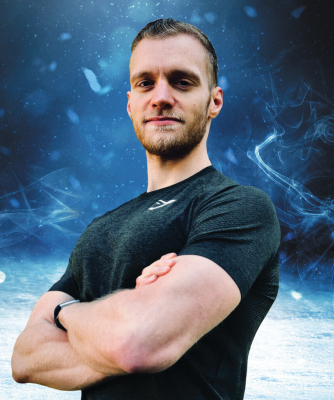
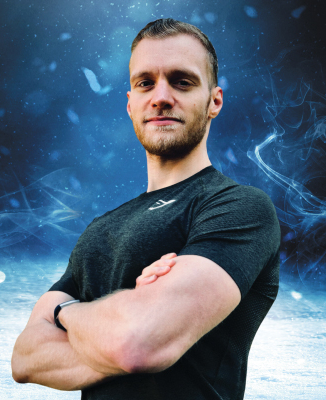
prof update

diff --git a/_site/index.html b/_site/index.html
@@ -22,7 +22,7 @@
   
   
   
-    <meta content="http://localhost:4000/assets/img/prof.jpg" property="og:image">
+    <meta content="http://localhost:4000/assets/img/profb2.jpg" property="og:image">
   
   
   
@@ -41,7 +41,7 @@
 ">
   
   
-    <meta name="twitter:image:src" content="http://localhost:4000/assets/img/prof.jpg">
+    <meta name="twitter:image:src" content="http://localhost:4000/assets/img/profb2.jpg">
   
 
 	<meta name="description" content="">
@@ -76,9 +76,9 @@
     <img class ="mobile-header-show" src =/assets/img/header3.jpg>
     <div class="about">
       <div class="cover-author-image">
-        <a href="/"><img src="/assets/img/prof.jpg" alt="Anthony Gallo"></a>
+        <a href="/"><img src="/assets/img/profb2.jpg" alt="Anthony D. Gallo"></a>
       </div>
-      <div class="author-name">Anthony Gallo</div>
+      <div class="author-name">Anthony D. Gallo</div>
       <p class="about-bio">Certified personal trainer and author of The Ice Sculpture Diet.</p>
       <ul class="links">
         <li>
@@ -115,7 +115,7 @@
       </ul>
     </section> <!-- End Section Contact -->
     <div class="copyright">
-      <p>2021 &copy; Anthony Gallo</p>
+      <p>2021 &copy; Anthony D. Gallo</p>
     </div>
   </footer> <!-- End Footer -->
 </aside> <!-- End Sidebar -->

diff --git a/_site/tags/index.html b/_site/tags/index.html
@@ -22,7 +22,7 @@
   
   
   
-    <meta content="http://localhost:4000/assets/img/prof.jpg" property="og:image">
+    <meta content="http://localhost:4000/assets/img/profb2.jpg" property="og:image">
   
   
   
@@ -41,7 +41,7 @@
 ">
   
   
-    <meta name="twitter:image:src" content="http://localhost:4000/assets/img/prof.jpg">
+    <meta name="twitter:image:src" content="http://localhost:4000/assets/img/profb2.jpg">
   
 
 	<meta name="description" content="">
@@ -76,9 +76,9 @@
     <img class ="mobile-header-show" src =/assets/img/header3.jpg>
     <div class="about">
       <div class="cover-author-image">
-        <a href="/"><img src="/assets/img/prof.jpg" alt="Anthony Gallo"></a>
+        <a href="/"><img src="/assets/img/profb2.jpg" alt="Anthony D. Gallo"></a>
       </div>
-      <div class="author-name">Anthony Gallo</div>
+      <div class="author-name">Anthony D. Gallo</div>
       <p class="about-bio">Certified personal trainer and author of The Ice Sculpture Diet.</p>
       <ul class="links">
         <li>
@@ -115,7 +115,7 @@
       </ul>
     </section> <!-- End Section Contact -->
     <div class="copyright">
-      <p>2021 &copy; Anthony Gallo</p>
+      <p>2021 &copy; Anthony D. Gallo</p>
     </div>
   </footer> <!-- End Footer -->
 </aside> <!-- End Sidebar -->

diff --git a/_site/calculating-your-bmr/index.html b/_site/calculating-your-bmr/index.html
@@ -85,9 +85,9 @@
     <img class ="mobile-header-show" src =/assets/img/header3.jpg>
     <div class="about">
       <div class="cover-author-image">
-        <a href="/"><img src="/assets/img/prof.jpg" alt="Anthony Gallo"></a>
+        <a href="/"><img src="/assets/img/profb2.jpg" alt="Anthony D. Gallo"></a>
       </div>
-      <div class="author-name">Anthony Gallo</div>
+      <div class="author-name">Anthony D. Gallo</div>
       <p class="about-bio">Certified personal trainer and author of The Ice Sculpture Diet.</p>
       <ul class="links">
         <li>
@@ -124,7 +124,7 @@
       </ul>
     </section> <!-- End Section Contact -->
     <div class="copyright">
-      <p>2021 &copy; Anthony Gallo</p>
+      <p>2021 &copy; Anthony D. Gallo</p>
     </div>
   </footer> <!-- End Footer -->
 </aside> <!-- End Sidebar -->

diff --git a/_site/ice-sculpture-diet/index.html b/_site/ice-sculpture-diet/index.html
@@ -85,9 +85,9 @@
     <img class ="mobile-header-show" src =/assets/img/header3.jpg>
     <div class="about">
       <div class="cover-author-image">
-        <a href="/"><img src="/assets/img/prof.jpg" alt="Anthony Gallo"></a>
+        <a href="/"><img src="/assets/img/profb2.jpg" alt="Anthony D. Gallo"></a>
       </div>
-      <div class="author-name">Anthony Gallo</div>
+      <div class="author-name">Anthony D. Gallo</div>
       <p class="about-bio">Certified personal trainer and author of The Ice Sculpture Diet.</p>
       <ul class="links">
         <li>
@@ -124,7 +124,7 @@
       </ul>
     </section> <!-- End Section Contact -->
     <div class="copyright">
-      <p>2021 &copy; Anthony Gallo</p>
+      <p>2021 &copy; Anthony D. Gallo</p>
     </div>
   </footer> <!-- End Footer -->
 </aside> <!-- End Sidebar -->

diff --git a/_site/template/index.html b/_site/template/index.html
@@ -83,9 +83,9 @@
     <img class ="mobile-header-show" src =/assets/img/header3.jpg>
     <div class="about">
       <div class="cover-author-image">
-        <a href="/"><img src="/assets/img/prof.jpg" alt="Anthony Gallo"></a>
+        <a href="/"><img src="/assets/img/profb2.jpg" alt="Anthony D. Gallo"></a>
       </div>
-      <div class="author-name">Anthony Gallo</div>
+      <div class="author-name">Anthony D. Gallo</div>
       <p class="about-bio">Certified personal trainer and author of The Ice Sculpture Diet.</p>
       <ul class="links">
         <li>
@@ -122,7 +122,7 @@
       </ul>
     </section> <!-- End Section Contact -->
     <div class="copyright">
-      <p>2021 &copy; Anthony Gallo</p>
+      <p>2021 &copy; Anthony D. Gallo</p>
     </div>
   </footer> <!-- End Footer -->
 </aside> <!-- End Sidebar -->

diff --git a/_site/what-is-fat-freezing/index.html b/_site/what-is-fat-freezing/index.html
@@ -85,9 +85,9 @@
     <img class ="mobile-header-show" src =/assets/img/header3.jpg>
     <div class="about">
       <div class="cover-author-image">
-        <a href="/"><img src="/assets/img/prof.jpg" alt="Anthony Gallo"></a>
+        <a href="/"><img src="/assets/img/profb2.jpg" alt="Anthony D. Gallo"></a>
       </div>
-      <div class="author-name">Anthony Gallo</div>
+      <div class="author-name">Anthony D. Gallo</div>
       <p class="about-bio">Certified personal trainer and author of The Ice Sculpture Diet.</p>
       <ul class="links">
         <li>
@@ -124,7 +124,7 @@
       </ul>
     </section> <!-- End Section Contact -->
     <div class="copyright">
-      <p>2021 &copy; Anthony Gallo</p>
+      <p>2021 &copy; Anthony D. Gallo</p>
     </div>
   </footer> <!-- End Footer -->
 </aside> <!-- End Sidebar -->
